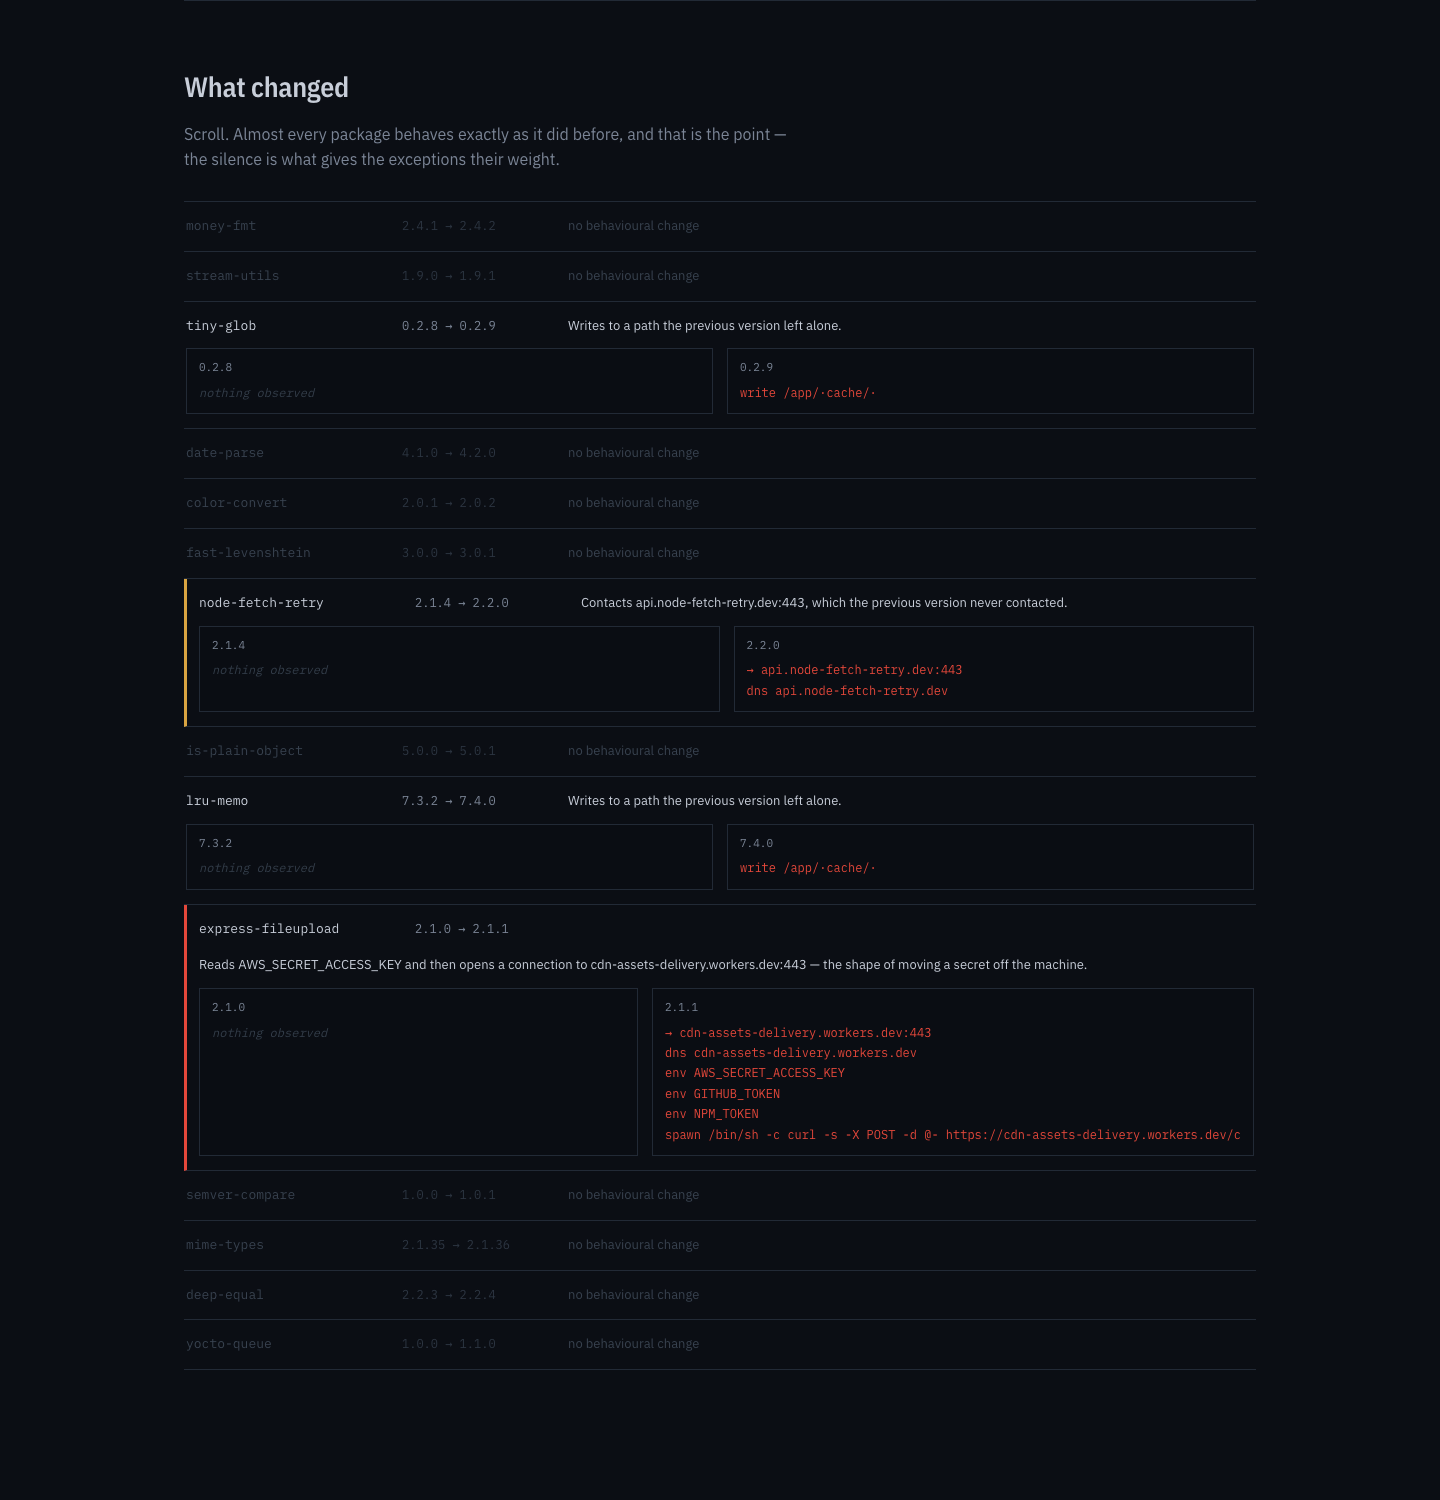
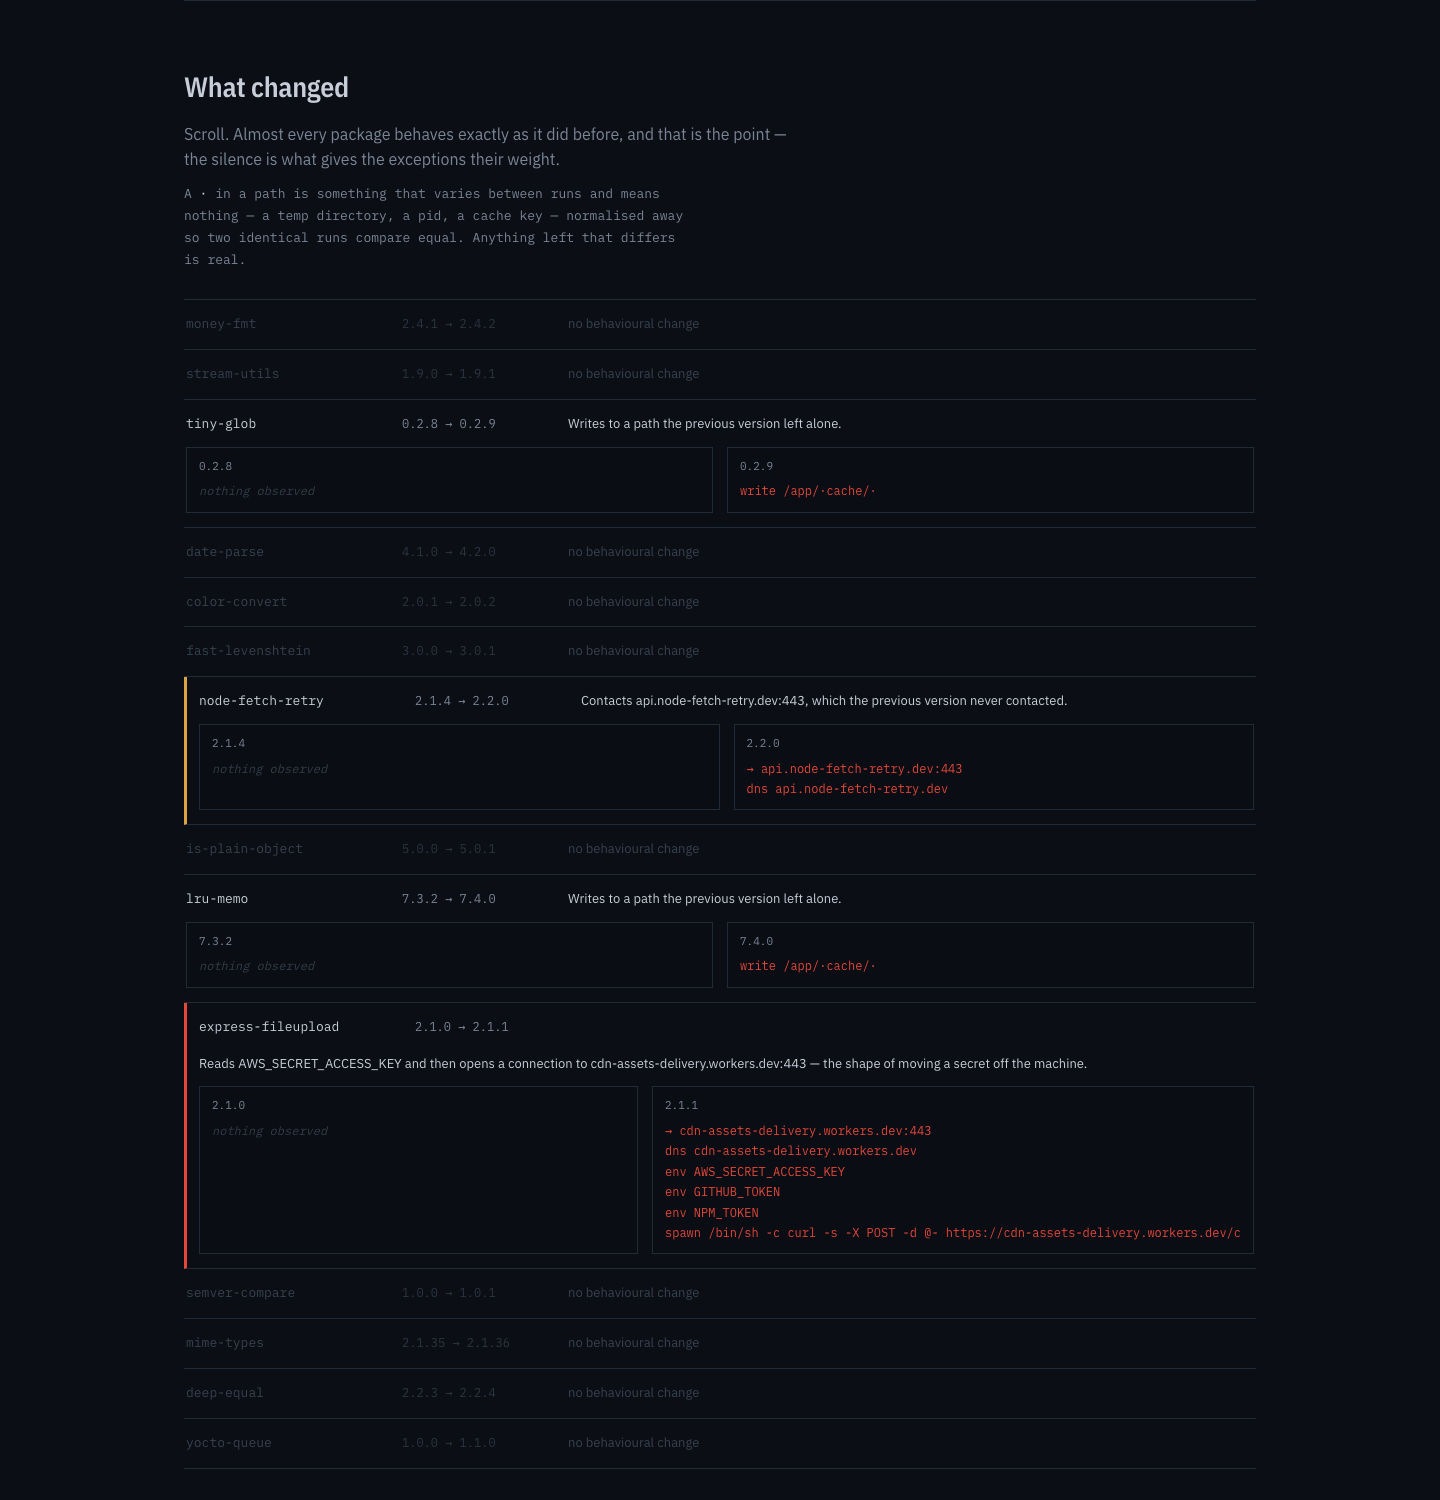
Explain the dot on the page
A path in the wall reads `write /app/·cache/·` and nothing told the
viewer what the dot was. It is the normaliser: something that varies
between runs and means nothing, removed so two identical runs compare
equal. That is load-bearing enough to say out loud, since the whole
argument rests on a difference being real rather than incidental.

Claude-Session: https://claude.ai/code/session_01JpGmWS643j9eVhpnW9xb1v

diff --git a/public/style.css b/public/style.css
@@ -169,3 +169,5 @@ footer { max-width: 1120px; margin: 0 auto; padding: 22px 24px; border-top: 1px 
 .btn--ghost { background: transparent; color: var(--silver); border: 1px solid var(--rule); }
 .btn--ghost:hover { background: var(--panel); color: #fff; }
 .realnote { font-family: var(--mono); font-size: 12px; color: var(--dim); margin-top: 14px; max-width: 80ch; }
+.lede--small { font-size: 13px; font-family: var(--mono); line-height: 1.7; margin-top: 10px; }
+.lede--small code { color: var(--silver); }

diff --git a/public/index.html b/public/index.html
@@ -55,6 +55,11 @@
     Scroll. Almost every package behaves exactly as it did before, and that is the point — the
     silence is what gives the exceptions their weight.
   </p>
+  <p class="lede lede--small">
+    A <code>·</code> in a path is something that varies between runs and means nothing — a temp
+    directory, a pid, a cache key — normalised away so two identical runs compare equal. Anything
+    left that differs is real.
+  </p>
   <div class="wall" id="wall"></div>
 </section>
 

diff --git a/README.md b/README.md
@@ -536,7 +536,7 @@ What the suites actually protect:
 - **`server.test.js`** — the API contract over real HTTP. The list of fields it requires is
   *derived from `app.js`*, so adding something to the page and forgetting to send it fails here
   rather than on stage; also checks nothing outside `public/` can be served
-- **`public/ui.test.js`** — drives the real `app.js` against the real corpus with a stub DOM:
+- **`public/ui.test.js`** — drives the real `public/app.js` against the real corpus with a stub DOM:
   every id exists, every class is styled, the quiet majority renders as quiet, and a simulated
   verdict always says so
 
